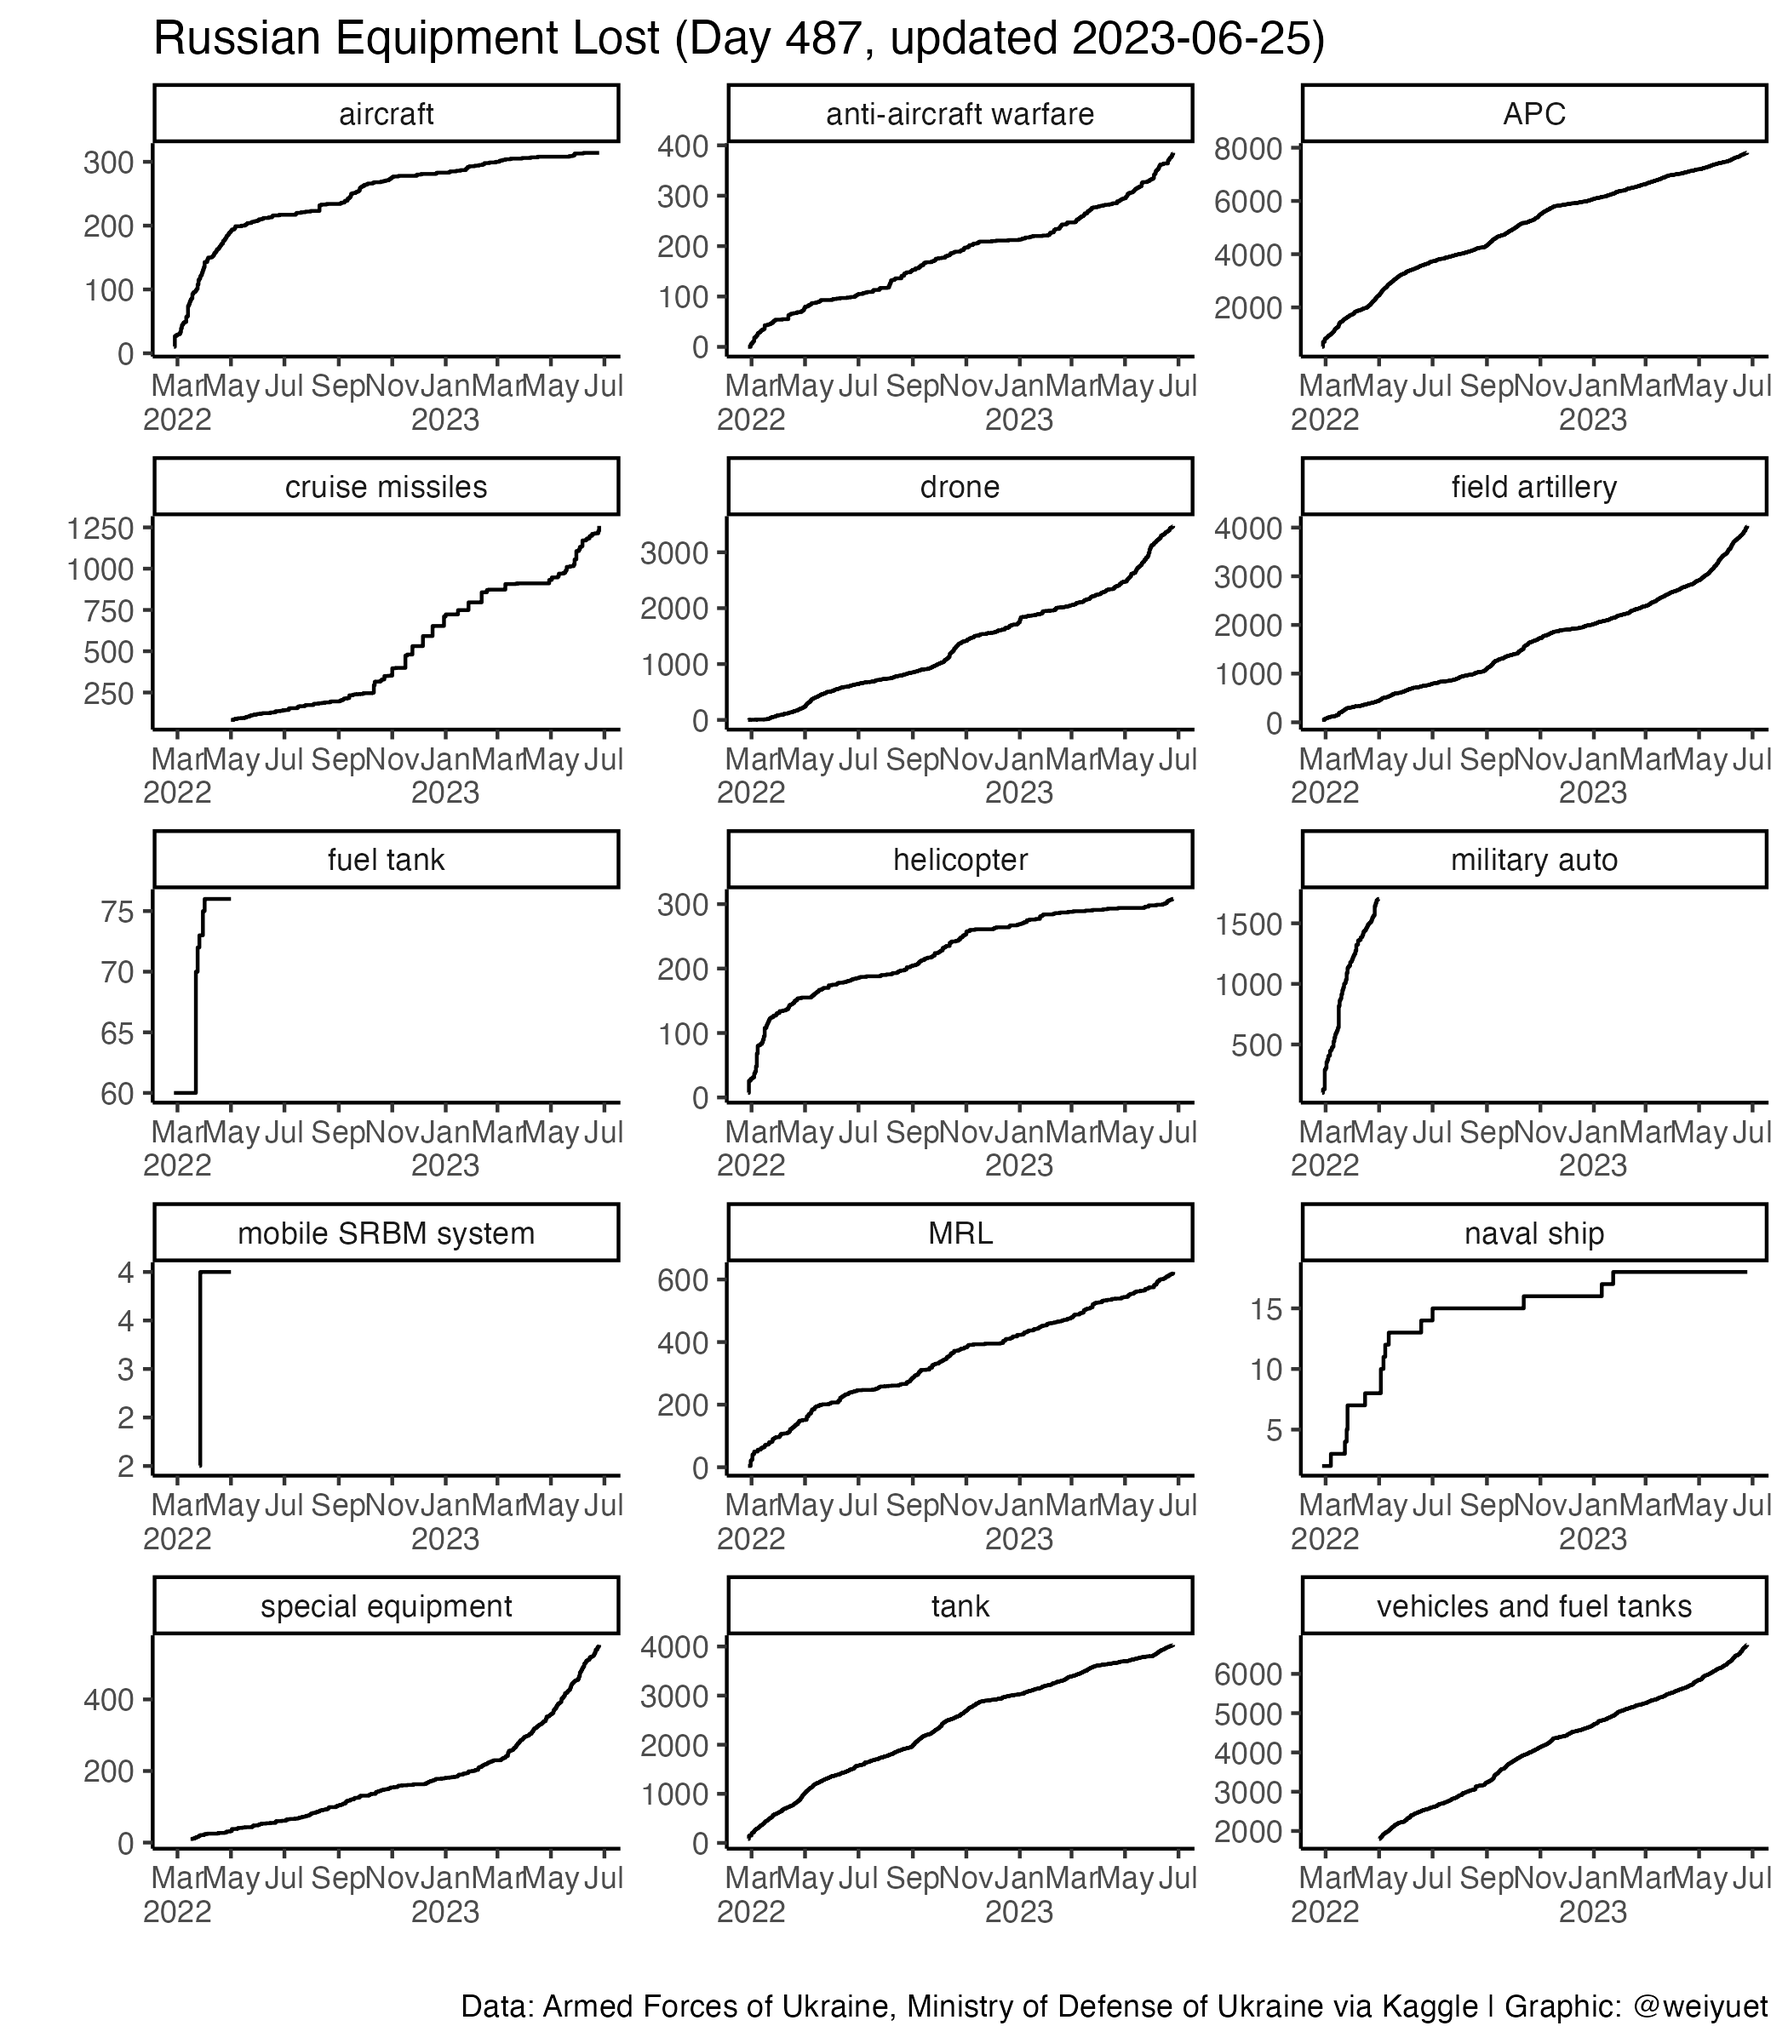
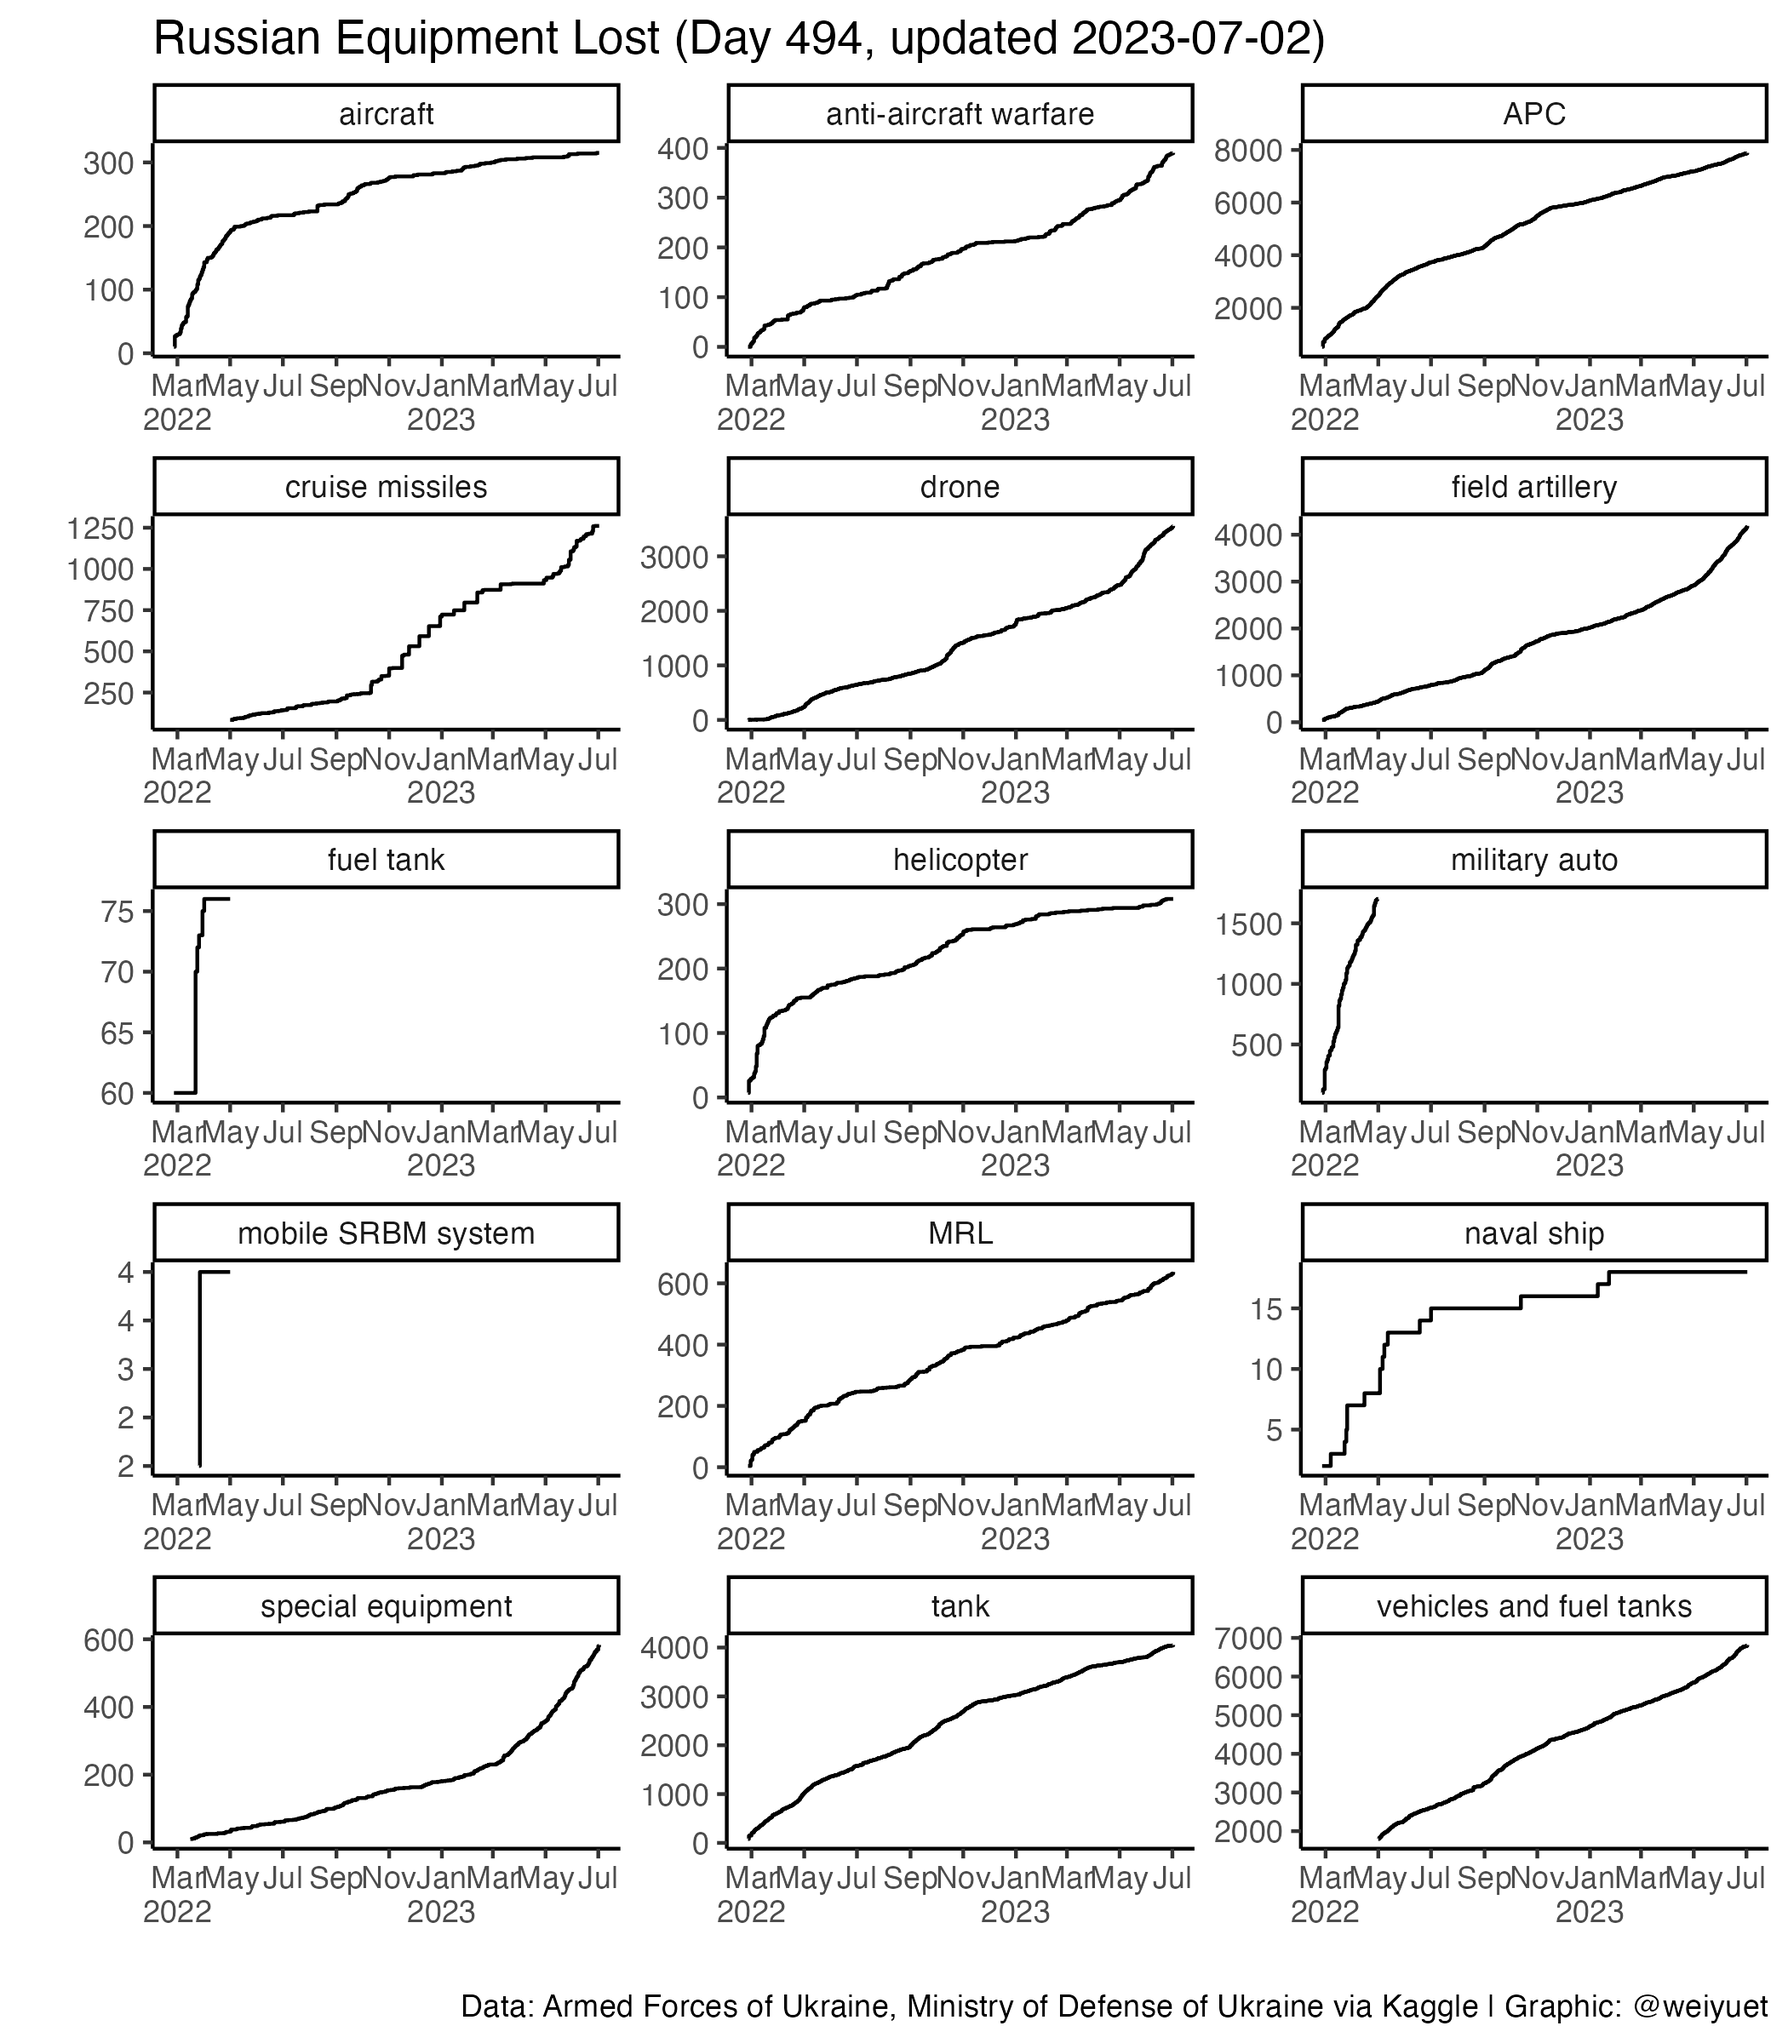
Updated 4 July

diff --git a/README.md b/README.md
@@ -6,7 +6,7 @@ Wong Wei Yuet 2022-05-26
 
   - War casualty data updated daily from [`Petro Ivanyuk's Kaggle`](https://www.kaggle.com/datasets/piterfm/2022-ukraine-russian-war). All data is official and put together by `Petro`
 
-Updated: 2023-06-25
+Updated: 2023-07-04
 
 ## Summary of Conflict
 
